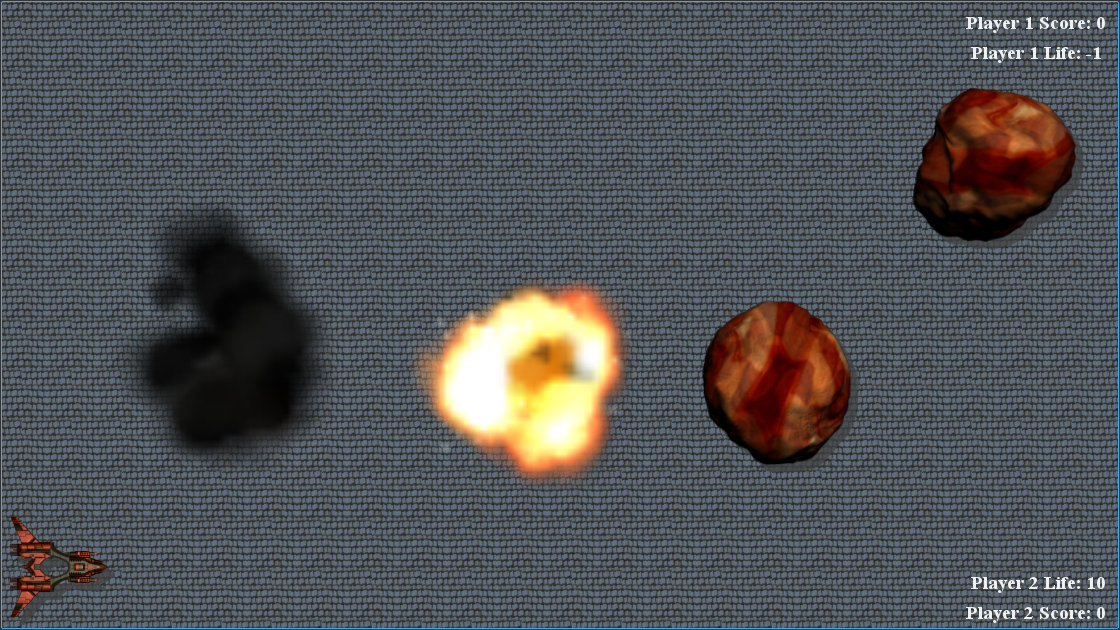
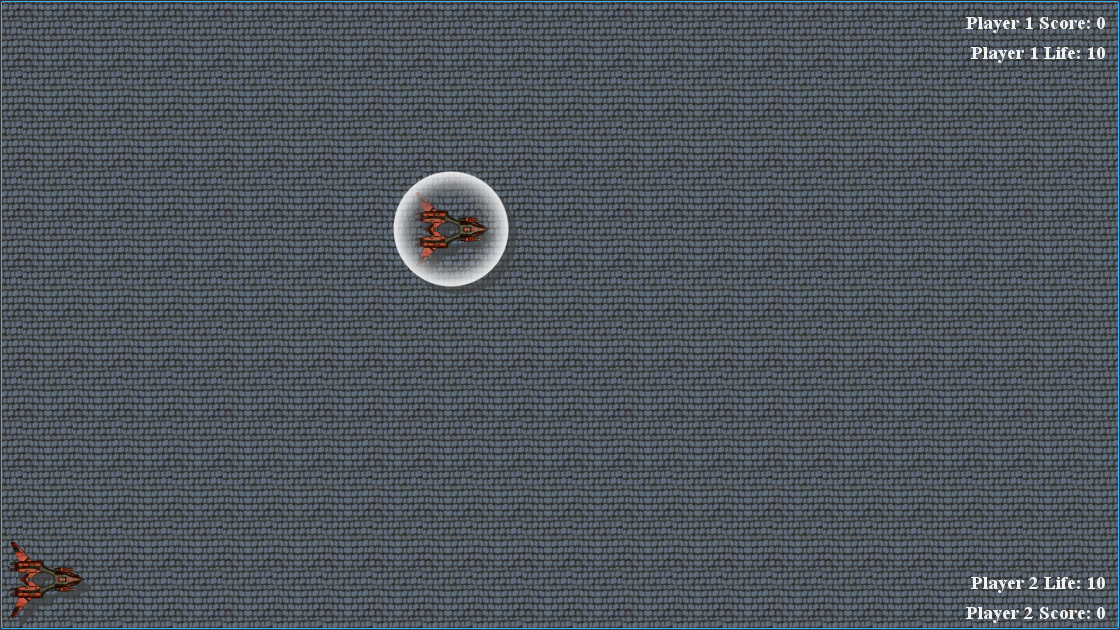
Project Update

diff --git a/Sources/Source Files/Widgets/MyGame.cpp b/Sources/Source Files/Widgets/MyGame.cpp
@@ -125,16 +125,20 @@ void MyGame::unpause() {
 }
 
 void MyGame::bld_stg1() {
-//	QTextStream X(stderr);
-	for (int i = 0; i < 40; i++) {
-//		MyExplosion *tmp = new MyExplosion(const_cast<QSize *>(&MyRes::expln_aln_bg_size));
-		MyAsteroid *tmp = new MyAsteroid();
+	for (int i = 0; i < 10; i++) {
+		MyShield *tmp = new MyShield();
 		tmp->setPos(MyRes::app_size.width() +
 		            (rand() % ((MyRes::gm_drtn / MyRes::frm_dly) - MyRes::astrd_size.width() + 1)),
 		            (rand() % (MyRes::app_size.height() - MyRes::astrd_size.height() + 1)));
 		scene()->addItem(tmp);
-//		X << tmp->x() << endl;
 	}
+//	for (int i = 0; i < 100; i++) {
+//		MyAsteroid *tmp = new MyAsteroid();
+//		tmp->setPos(MyRes::app_size.width() +
+//		            (rand() % ((MyRes::gm_drtn / MyRes::frm_dly) - MyRes::astrd_size.width() + 1)),
+//		            (rand() % (MyRes::app_size.height() - MyRes::astrd_size.height() + 1)));
+//		scene()->addItem(tmp);
+//	}
 }
 
 void MyGame::bld_stg2() {

diff --git a/Sources/Source Files/Resources.cpp b/Sources/Source Files/Resources.cpp
@@ -7,16 +7,16 @@
 namespace MyRes {
     // Game properties
     const QSize stg_size(150, 630);
-    const QSize lf_size(35, 35);
+    const QSize lf_size(25, 25);
     const QSize lsr_size(30, 8);
-    const QSize str_size(30, 30);
-    const QSize mgc_size(40, 40);
-    const QSize shld_size(43, 43);
-    const QSize astrd_size(350, 350);
-    const QSize aln_bgsize(70, 70);
-    const QSize aln_smllsize(140, 140);
-    const QSize shp_size(100, 100);
-    const QSize shp_shld_size(150, 150);
+    const QSize str_size(20, 20);
+    const QSize mgc_size(30, 30);
+    const QSize shld_size(33, 33);
+    const QSize astrd_size(150, 150);
+    const QSize aln_smllsize(50, 50);
+    const QSize aln_bgsize(100, 100);
+    const QSize shp_size(75, 75);
+    const QSize shp_shld_size(120, 120);
     const QSize expln_aln_smll_size(175, 175);
     const QSize expln_aln_bg_size(350, 350);
     const QSize expln_lsr_size(75, 75);

diff --git a/Sources/Source Files/Game Objects/MyAlien.cpp b/Sources/Source Files/Game Objects/MyAlien.cpp
@@ -10,12 +10,12 @@ MyAlien::MyAlien() :
 	fast = false;
 	typ = rand() % 2;
 	if (typ == 0) {
-		setPixmap(QPixmap(MyRes::aln_nrml_adds[rand() % MyRes::aln_nrml_cnt]).scaled(MyRes::aln_smllsize,
+		setPixmap(QPixmap(MyRes::aln_nrml_adds[rand() % MyRes::aln_nrml_cnt]).scaled(MyRes::aln_bgsize,
 		                                                                             Qt::KeepAspectRatio,
 		                                                                             Qt::SmoothTransformation));
 	}
 	else {
-		setPixmap(QPixmap(MyRes::aln_nrml_adds[rand() % MyRes::aln_nrml_cnt]).scaled(MyRes::aln_bgsize,
+		setPixmap(QPixmap(MyRes::aln_nrml_adds[rand() % MyRes::aln_nrml_cnt]).scaled(MyRes::aln_smllsize,
 		                                                                             Qt::KeepAspectRatio,
 		                                                                             Qt::SmoothTransformation));
 	}
